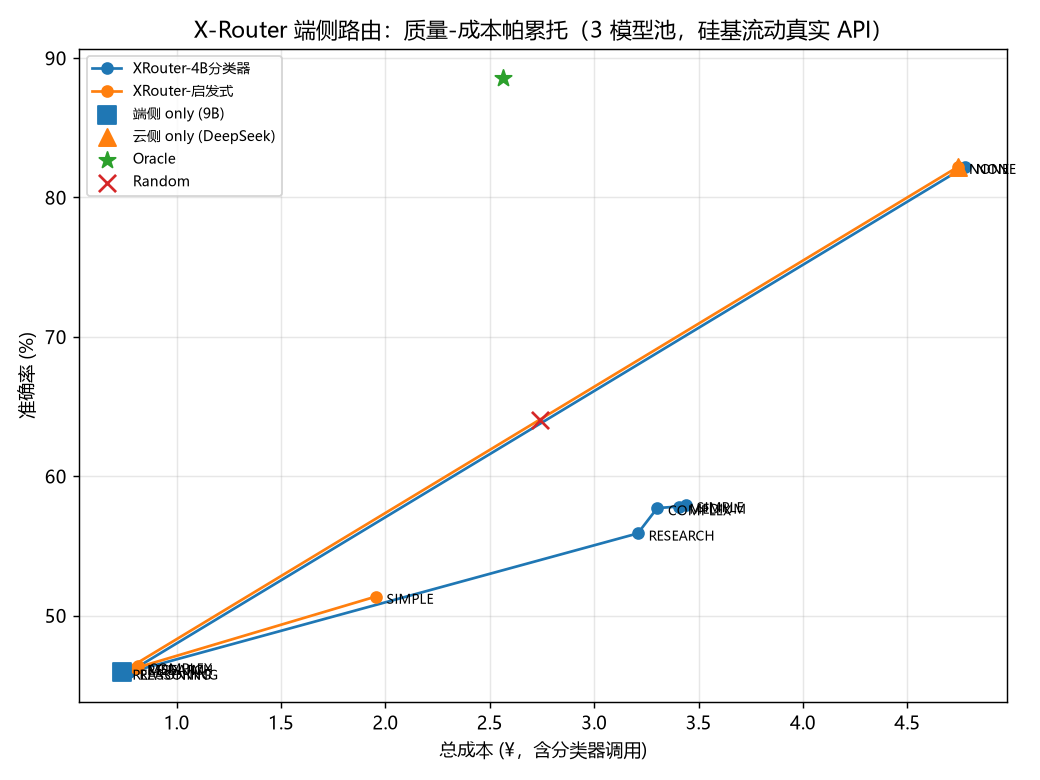
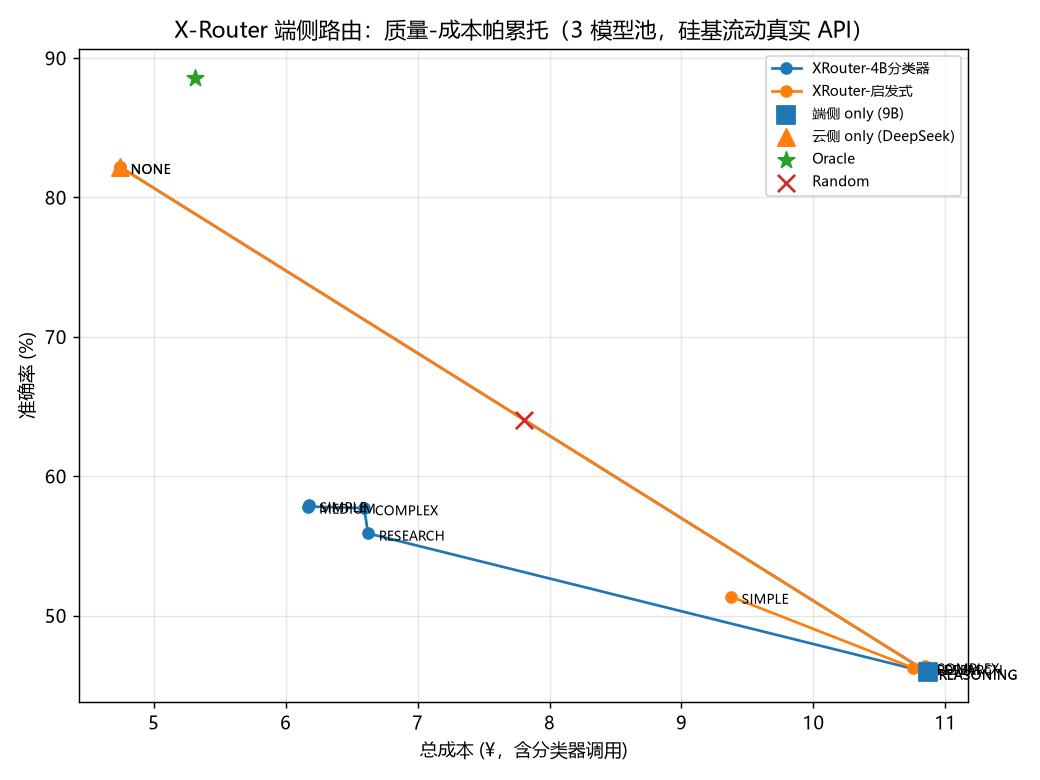
fix(tools): 按硅基流动真实单价重算成本并出分类分解图
- 单价修正：Qwen3.5-4B=免费(0/0)、Qwen3.5-9B=1.5/12、DeepSeek-V4.1-Flash=2.0/8.0（原 4B/9B 为估算）
- 结论反转：端侧 9B 输出比云侧贵 50%，端侧 only(¥10.87/45.9%) 被云侧 only(¥4.74/82.2%) 帕累托支配
- 新增 eval_3model_charts.py：启发式/LLM 分类分解图 + 对比图

diff --git a/tools/eval_3model_charts.py b/tools/eval_3model_charts.py
@@ -1,0 +1,263 @@
+# -*- coding: utf-8 -*-
+"""XRouter 启发式 vs LLM 分类的逐题回放分析 + 三张图。
+
+产出：
+  1) xrouter_heur_classification.png —— 启发式分类：档位分布(端/云) + 分档准确率
+  2) xrouter_llm_classification.png   —— LLM 分类：档位分布(端/云) + source/失败 + 分档准确率
+  3) xrouter_comparison.png           —— 启发式 / LLM / 各基线 质量-成本对比
+  4) devllmr_3model_detail.csv        —— 逐题明细（heuristic/llm 的 tier/side/score）
+
+价格：2026-10-28 查自 https://www.siliconflow.cn/pricing（真实单价）：
+  Qwen3.5-4B(分类器)=免费 0/0；Qwen3.5-9B(端侧)=1.5/12；DeepSeek-V4.1-Flash(云侧)=2.0/8.0
+"""
+from __future__ import annotations
+
+import csv
+import sys
+from collections import defaultdict
+from pathlib import Path
+
+ROOT = Path(__file__).resolve().parent.parent
+sys.path.insert(0, str(ROOT))
+sys.path.insert(0, str(ROOT / "tools"))
+
+from baselines.data_loader import BaselineDataLoader  # noqa: E402
+from baselines.device_llm_router import classify_heuristic, TIER_ORDER  # noqa: E402
+from eval_device_llm_router_3model import (  # noqa: E402
+    LOCAL_MODEL, CLOUD_MODEL, CLASSIFIER_MODEL,
+    load_questions, load_tiers, route_for_tier, references, cost_of,
+)
+
+CAPABILITY = "MEDIUM"
+TIER_CN = {"SIMPLE": "简单", "MEDIUM": "中等", "COMPLEX": "复杂",
+           "RESEARCH": "研究", "REASONING": "推理"}
+COLOR_LOCAL = "#2b7bba"
+COLOR_CLOUD = "#e08214"
+
+
+def _score(rec) -> float:
+    return 1.0 if rec.score and float(rec.score) > 0 else 0.0
+
+
+def build_rows(questions, meta, tiers):
+    rows = []
+    for key in sorted(questions):
+        by = questions[key]
+        if LOCAL_MODEL not in by or CLOUD_MODEL not in by:
+            continue
+        text = meta[key]
+        # ---- 启发式分类 ----
+        h_tier = classify_heuristic([{"role": "user", "content": text}])
+        h_model = route_for_tier(h_tier, CAPABILITY)
+        h_correct = _score(by[h_model])
+        h_cost = cost_of(h_model, int(by[h_model].prompt_tokens or 0),
+                         int(by[h_model].completion_tokens or 0))
+        # ---- LLM 分类（4B，预打档）----
+        t = tiers.get(key)
+        if t is not None:
+            l_tier, l_src = t["tier"], t["source"]
+            cls_cost = cost_of(CLASSIFIER_MODEL, t["prompt_tokens"], t["completion_tokens"])
+        else:
+            l_tier, l_src = classify_heuristic([{"role": "user", "content": text}]), "heuristic_fallback"
+            cls_cost = 0.0
+        l_model = route_for_tier(l_tier, CAPABILITY)
+        l_correct = _score(by[l_model])
+        l_cost = cost_of(l_model, int(by[l_model].prompt_tokens or 0),
+                         int(by[l_model].completion_tokens or 0)) + cls_cost
+        rows.append({
+            "dataset_id": key[0], "record_index": key[1],
+            "heur_tier": h_tier, "llm_tier": l_tier, "llm_source": l_src,
+            "heur_side": "local" if h_model == LOCAL_MODEL else "cloud",
+            "llm_side": "local" if l_model == LOCAL_MODEL else "cloud",
+            "heur_correct": int(h_correct), "llm_correct": int(l_correct),
+            "heur_cost": round(h_cost, 6), "llm_cost": round(l_cost, 6),
+        })
+    return rows
+
+
+def _tier_stack(rows, prefix):
+    """档位 -> {local: n, cloud: n, correct: n}；prefix ∈ {heur, llm}。"""
+    agg = {t: {"local": 0, "cloud": 0, "correct": 0} for t in TIER_ORDER}
+    for r in rows:
+        t = r[prefix + "_tier"]
+        if t not in agg:
+            agg[t] = {"local": 0, "cloud": 0, "correct": 0}
+        agg[t][r[prefix + "_side"]] += 1
+        agg[t]["correct"] += r[prefix + "_correct"]
+    return agg
+
+
+def _acc_bar(agg):
+    return {t: (agg[t]["correct"] / (agg[t]["local"] + agg[t]["cloud"])
+                if agg[t]["local"] + agg[t]["cloud"] else 0.0) for t in TIER_ORDER}
+
+
+def main() -> None:
+    import argparse
+    ap = argparse.ArgumentParser()
+    ap.add_argument("--config", default="config/baseline_config_edge.yaml")
+    ap.add_argument("--tiers", default="results/xrouter_classifier_tiers.csv")
+    args = ap.parse_args()
+
+    loader = BaselineDataLoader(config_path=str(ROOT / args.config))
+    records = [r for r in loader.load_all_records() if r.model_name in (LOCAL_MODEL, CLOUD_MODEL)]
+    questions, meta = load_questions(records)
+    tiers = load_tiers(ROOT / args.tiers)
+    refs = references(questions)
+    rows = build_rows(questions, meta, tiers)
+    n = len(rows)
+    print(f"[matrix] {len(questions)} 题 | [tiers] {len(tiers)} 档 | [rows] {n}")
+
+    heur_agg = _tier_stack(rows, "heur")
+    llm_agg = _tier_stack(rows, "llm")
+    heur_acc = _acc_bar(heur_agg)
+    llm_acc = _acc_bar(llm_agg)
+
+    heur_local = sum(1 for r in rows if r["heur_side"] == "local")
+    llm_local = sum(1 for r in rows if r["llm_side"] == "local")
+    heur_correct = sum(r["heur_correct"] for r in rows)
+    llm_correct = sum(r["llm_correct"] for r in rows)
+    heur_cost = sum(r["heur_cost"] for r in rows)
+    llm_cost = sum(r["llm_cost"] for r in rows)
+
+    # ---- 打印汇总 ----
+    print("\n===== 启发式分类（Q1）=====")
+    print(f"档位分布: " + ", ".join(f"{t}:{heur_agg[t]['local']+heur_agg[t]['cloud']}" for t in TIER_ORDER))
+    print(f"端侧 {heur_local} / 云侧 {n-heur_local} | 准确率 {heur_correct/n*100:.2f}% | 成本 {heur_cost:.4f}")
+    print("分档准确率: " + ", ".join(f"{t}:{heur_acc[t]*100:.1f}%" for t in TIER_ORDER))
+    print("\n===== LLM 分类（Q2）=====")
+    src = defaultdict(int)
+    for r in rows:
+        src[r["llm_source"]] += 1
+    print(f"source: " + ", ".join(f"{k}:{v}" for k, v in sorted(src.items())))
+    print(f"档位分布: " + ", ".join(f"{t}:{llm_agg[t]['local']+llm_agg[t]['cloud']}" for t in TIER_ORDER))
+    print(f"端侧 {llm_local} / 云侧 {n-llm_local} | 准确率 {llm_correct/n*100:.2f}% | 成本 {llm_cost:.4f}")
+    print("分档准确率: " + ", ".join(f"{t}:{llm_acc[t]*100:.1f}%" for t in TIER_ORDER))
+    # 失败题分数据集
+    fail_ds = defaultdict(int)
+    for r in rows:
+        if r["llm_source"] == "heuristic_fallback":
+            fail_ds[r["dataset_id"]] += 1
+    print("LLM 失败(heuristic_fallback) 分数据集: " + ", ".join(f"{k}:{v}" for k, v in sorted(fail_ds.items(), key=lambda x: -x[1])))
+    print("\n===== 基线（真实单价）=====")
+    for name in ("local", "cloud", "oracle", "random"):
+        d = refs[name]
+        print(f"{name:<8} acc={d['correct']/d['n']*100:6.2f}%  cost={d['cost']:8.4f}")
+
+    # ---- 落盘逐题明细 ----
+    detail = ROOT / "results" / "devllmr_3model_detail.csv"
+    with open(detail, "w", newline="", encoding="utf-8") as f:
+        w = csv.DictWriter(f, fieldnames=list(rows[0].keys()))
+        w.writeheader()
+        w.writerows(rows)
+    print(f"\n[saved] {detail}")
+
+    # ================= 绘图 =================
+    import matplotlib
+    matplotlib.use("Agg")
+    import matplotlib.pyplot as plt
+    plt.rcParams["font.sans-serif"] = ["Microsoft YaHei", "SimHei", "DejaVu Sans"]
+    plt.rcParams["axes.unicode_minus"] = False
+    x = range(len(TIER_ORDER))
+
+    # ---- 图1：启发式分类 ----
+    fig, (a1, a2) = plt.subplots(1, 2, figsize=(12, 4.6))
+    loc = [heur_agg[t]["local"] for t in TIER_ORDER]
+    cl = [heur_agg[t]["cloud"] for t in TIER_ORDER]
+    a1.bar(x, loc, color=COLOR_LOCAL, label="端侧 9B")
+    a1.bar(x, cl, bottom=loc, color=COLOR_CLOUD, label="云侧 DeepSeek")
+    for i, t in enumerate(TIER_ORDER):
+        tot = loc[i] + cl[i]
+        a1.text(i, tot + 6, f"{tot}", ha="center", fontsize=9)
+    a1.set_xticks(list(x)); a1.set_xticklabels([TIER_CN[t] for t in TIER_ORDER])
+    a1.set_ylabel("题数"); a1.set_title("档位分布（颜色=路由去向）")
+    a1.legend(fontsize=8)
+    accs = [heur_acc[t] * 100 for t in TIER_ORDER]
+    bars = a2.bar(list(x), accs, color="#5b8ff9")
+    a2.axhline(heur_correct / n * 100, color="red", ls="--", lw=1.2,
+               label=f"总体 {heur_correct/n*100:.1f}%")
+    for i, t in enumerate(TIER_ORDER):
+        a2.text(i, accs[i] + 1, f"{accs[i]:.0f}%", ha="center", fontsize=9)
+    a2.set_xticks(list(x)); a2.set_xticklabels([TIER_CN[t] for t in TIER_ORDER])
+    a2.set_ylim(0, 105); a2.set_ylabel("准确率 (%)"); a2.set_title("分档准确率")
+    a2.legend(fontsize=8)
+    fig.suptitle(f"X-Router 启发式分类（882 题）：端侧 {heur_local} / 云侧 {n-heur_local}，"
+                 f"总体准确率 {heur_correct/n*100:.2f}%，成本 ¥{heur_cost:.2f}", fontsize=11)
+    fig.tight_layout(rect=[0, 0, 1, 0.94])
+    p1 = ROOT / "results" / "xrouter_heur_classification.png"
+    fig.savefig(p1, dpi=130); plt.close(fig)
+    print(f"[saved] {p1}")
+
+    # ---- 图2：LLM 分类 ----
+    fig, axs = plt.subplots(2, 2, figsize=(12, 9))
+    (a1, a2), (a3, a4) = axs
+    loc = [llm_agg[t]["local"] for t in TIER_ORDER]
+    cl = [llm_agg[t]["cloud"] for t in TIER_ORDER]
+    a1.bar(x, loc, color=COLOR_LOCAL, label="端侧 9B")
+    a1.bar(x, cl, bottom=loc, color=COLOR_CLOUD, label="云侧 DeepSeek")
+    for i, t in enumerate(TIER_ORDER):
+        tot = loc[i] + cl[i]
+        a1.text(i, tot + 6, f"{tot}", ha="center", fontsize=9)
+    a1.set_xticks(list(x)); a1.set_xticklabels([TIER_CN[t] for t in TIER_ORDER])
+    a1.set_ylabel("题数"); a1.set_title("档位分布（颜色=路由去向）")
+    a1.legend(fontsize=8)
+
+    n_llm = src.get("llm", 0); n_fb = src.get("heuristic_fallback", 0)
+    a2.pie([n_llm, n_fb], labels=[f"llm（4B 打档）{n_llm}", f"回退启发式 {n_fb}"],
+           colors=["#5b8ff9", "#f95d6a"], autopct="%1.1f%%", startangle=90,
+           textprops={"fontsize": 9})
+    a2.set_title("分类 source（LLM 失败→回退）")
+    a2.text(0, -1.35, "失败原因：硅基流动 4B 限流/慢速（单请求 60–95s）\n"
+             "首轮 60s 超时 280 题；重试(120s/并发16)后仍 56 题超时",
+            ha="center", fontsize=8, color="#a33")
+
+    accs = [llm_acc[t] * 100 for t in TIER_ORDER]
+    a3.bar(list(x), accs, color="#5b8ff9")
+    a3.axhline(llm_correct / n * 100, color="red", ls="--", lw=1.2,
+               label=f"总体 {llm_correct/n*100:.1f}%")
+    for i, t in enumerate(TIER_ORDER):
+        a3.text(i, accs[i] + 1, f"{accs[i]:.0f}%", ha="center", fontsize=9)
+    a3.set_xticks(list(x)); a3.set_xticklabels([TIER_CN[t] for t in TIER_ORDER])
+    a3.set_ylim(0, 105); a3.set_ylabel("准确率 (%)"); a3.set_title("分档准确率")
+    a3.legend(fontsize=8)
+
+    dss = sorted(fail_ds.items(), key=lambda kv: -kv[1])
+    a4.bar([d[0] for d in dss], [d[1] for d in dss], color="#f95d6a")
+    for i, (_, v) in enumerate(dss):
+        a4.text(i, v + 1, str(v), ha="center", fontsize=9)
+    a4.set_title("LLM 分类失败题分布（按数据集）")
+    a4.set_ylabel("题数")
+    a4.tick_params(axis="x", labelsize=8)
+    fig.suptitle(f"X-Router LLM 分类（882 题）：端侧 {llm_local} / 云侧 {n-llm_local}，"
+                 f"总体准确率 {llm_correct/n*100:.2f}%，成本 ¥{llm_cost:.2f}", fontsize=11)
+    fig.tight_layout(rect=[0, 0, 1, 0.95])
+    p2 = ROOT / "results" / "xrouter_llm_classification.png"
+    fig.savefig(p2, dpi=130); plt.close(fig)
+    print(f"[saved] {p2}")
+
+    # ---- 图3：合并对比 ----
+    fig, ax = plt.subplots(figsize=(9, 6.5))
+    pts = [
+        ("X-Router 启发式(MEDIUM)", heur_correct / n * 100, heur_cost, "o", "#f9a825"),
+        ("X-Router LLM分类(MEDIUM)", llm_correct / n * 100, llm_cost, "o", "#d81b60"),
+        ("端侧 only (9B)", refs["local"]["correct"] / refs["local"]["n"] * 100, refs["local"]["cost"], "s", COLOR_LOCAL),
+        ("云侧 only (DeepSeek)", refs["cloud"]["correct"] / refs["cloud"]["n"] * 100, refs["cloud"]["cost"], "^", COLOR_CLOUD),
+        ("Oracle", refs["oracle"]["correct"] / refs["oracle"]["n"] * 100, refs["oracle"]["cost"], "*", "#2e7d32"),
+        ("Random", refs["random"]["correct"] / refs["random"]["n"] * 100, refs["random"]["cost"], "x", "#757575"),
+    ]
+    for name, acc, cost, mk, c in pts:
+        ax.scatter(cost, acc, marker=mk, s=160, color=c, zorder=5, edgecolors="black", linewidths=0.6)
+        ax.annotate(f"{name}\n(¥{cost:.2f}, {acc:.1f}%)", (cost, acc),
+                    textcoords="offset points", xytext=(10, 6), fontsize=8.5)
+    ax.set_xlabel("总成本 (¥，882 题，真实单价)")
+    ax.set_ylabel("准确率 (%)")
+    ax.set_title("X-Router 启发式 vs LLM 分类 vs 基线（真实单价：4B 免费 / 9B 1.5·12 / DeepSeek 2·8）")
+    ax.grid(True, alpha=0.3)
+    fig.tight_layout()
+    p3 = ROOT / "results" / "xrouter_comparison.png"
+    fig.savefig(p3, dpi=130); plt.close(fig)
+    print(f"[saved] {p3}")
+
+
+if __name__ == "__main__":
+    main()

diff --git a/tools/eval_device_llm_router_3model.py b/tools/eval_device_llm_router_3model.py
@@ -38,11 +38,11 @@ LOCAL_MODEL = "Qwen3.5-9B"            # 端侧大模型（本地回答）
 CLOUD_MODEL = "DeepSeek-V4.1-Flash"   # 云侧模型
 CLASSIFIER_MODEL = "Qwen3.5-4B"       # 端侧小模型（难度裁判）
 
-# 硅基流动计费（¥ / 百万 token）。4B/9B 为估算，deepseek 已核对低价时段。
+# 硅基流动真实单价（¥ / 百万 token），2026-10-28 查自 https://www.siliconflow.cn/pricing
 PRICES = {
-    LOCAL_MODEL: {"in": 0.20, "out": 0.80},
-    CLOUD_MODEL: {"in": 2.00, "out": 8.00},
-    CLASSIFIER_MODEL: {"in": 0.10, "out": 0.40},
+    LOCAL_MODEL: {"in": 1.50, "out": 12.00},       # Qwen3.5-9B
+    CLOUD_MODEL: {"in": 2.00, "out": 8.00},        # DeepSeek-V4.1-Flash（0-2点/8-24点档）
+    CLASSIFIER_MODEL: {"in": 0.00, "out": 0.00},   # Qwen3.5-4B（免费）
 }
 
 

diff --git a/docs/edge_router_3model_eval_report.md b/docs/edge_router_3model_eval_report.md
@@ -43,14 +43,15 @@
 - 成本 = **分类器调用成本 + 回答模型成本**，均按 `token × 单价` 重算。
 - [tools/eval_3model_sweep.py](../tools/eval_3model_sweep.py) 对 `localCapabilityLevel ∈ {SIMPLE, MEDIUM, COMPLEX, RESEARCH, REASONING, NONE}` 扫描出帕累托前沿。
 
-### 3.4 计费单价（¥ / 百万 token，硅基流动）
+### 3.4 计费单价（¥ / 百万 token，硅基流动真实价格，2026-10-28 查自 https://www.siliconflow.cn/pricing）
 | 模型 | 输入 | 输出 | 说明 |
 |---|---|---|---|
-| Qwen3.5-4B（分类器） | 0.10 | 0.40 | 估算 |
-| Qwen3.5-9B（端侧） | 0.20 | 0.80 | 估算 |
-| DeepSeek-V4.1-Flash（云侧） | 2.00 | 8.00 | 已核对 |
+| Qwen3.5-4B（分类器） | 0 | 0 | **免费** |
+| Qwen3.5-9B（端侧） | 1.50 | 12.00 | 输出 = 8× 输入 |
+| DeepSeek-V4.1-Flash（云侧） | 2.00 | 8.00 | 0-2点/8-24点档（2-8点更低） |
 
-> 逐题 token 已落盘，单价若修正可精确重算成本。
+> ⚠ **关键事实**：端侧 9B 的**输出 token（¥12/M）比云侧 DeepSeek（¥8/M）贵 50%**，输入略便宜（1.5 vs 2.0）；
+> 分类器 4B 免费。逐题 token 已落盘，单价变化可精确重算。此前 4B/9B 用了估算价（0.10/0.40、0.20/0.80），结论被显著高估「本地省钱」。
 
 ### 3.5 对照基线
 端侧 only（9B）、云侧 only（DeepSeek）、Oracle（每题最优上界）、Random（0.5/0.5 期望）、
@@ -62,15 +63,15 @@
 
 | 方案 | 准确率 | 总成本 (¥) | n | 备注 |
 |---|---|---|---|---|
-| **X-Router（4B 分类器，MEDIUM）** | **57.82%** | **3.404** | 882 | 端侧 545 / 云侧 337 |
-| X-Router（启发式分类器，MEDIUM） | 46.26% | 0.808 | 882 | |
-| 端侧 only（9B） | 45.92% | 0.736 | 882 | |
+| **X-Router（4B 分类器，MEDIUM）** | **57.82%** | **6.172** | 882 | 端侧 545 / 云侧 337 |
+| X-Router（启发式分类器，MEDIUM） | 46.26% | 10.751 | 882 | 端侧 870 / 云侧 12 |
+| 端侧 only（9B） | 45.92% | 10.867 | 882 | |
 | 云侧 only（DeepSeek） | 82.20% | 4.743 | 882 | |
-| Oracle（每题最优上界） | 88.55% | 2.562 | 882 | |
-| Random（0.5/0.5 期望） | 64.06% | 2.740 | 882 | |
+| Oracle（每题最优上界） | 88.55% | 5.317 | 882 | |
+| Random（0.5/0.5 期望） | 64.06% | 7.805 | 882 | |
 
-> 相对云侧单模型：**成本节省 28.2%**（3.404 vs 4.743），准确率回落 24.4 个百分点（57.82% vs 82.20%）。
-> 相对端侧单模型：+11.9 个百分点准确率（57.82% vs 45.92%），代价是多花 2.67 元。
+> ⚠ 真实单价下的结论反转：**云侧 only（4.74 元 / 82.2%）在「更便宜且更准」两个维度都压过端侧 only（10.87 元 / 45.9%）**。
+> X-Router 4B 分类器相对云侧 only：准确率 -24.4pp，成本**高出 30.1%**（6.17 vs 4.74）——即该模型池下「永远用云」帕累托支配 X-Router。
 
 ### 4.2 分类器档位 / source 分布
 
@@ -81,39 +82,53 @@
 
 档位分布（826 llm + 56 回退合并）：`SIMPLE:541, REASONING:297, RESEARCH:28, COMPLEX:12, MEDIUM:4`。
 
-> 4B 分类器明显偏「REASONING」档（297/882），这是真实 LLM 分类器的行为；其效果是：对 gpqa/mmlupro 等难题更倾向甩云端，
-> 用 3.40 元换来 57.82% 准确率，明显高于端侧 only（45.92%），显著低于云侧 only（82.20%）。
+> 4B 分类器明显偏「REASONING」档（297/882），这是真实 LLM 分类器的行为；其效果是：对 gpqa/mmlupro 等难题更倾向甩云端。
+> 因端侧 9B 比云侧更贵更弱，把难题甩云端反而「又省又准」（见 §5）。
 
-### 4.3 分数据集（X-Router，4B 分类器）
+### 4.3 分数据集（X-Router，4B 分类器，真实单价）
 
 | dataset | n | 准确率 | 成本 (¥) | 端侧 | 云侧 |
 |---|---|---|---|---|---|
-| arcc | 150 | 43.33% | 0.047 | 138 | 12 |
-| gpqa | 150 | 67.33% | 1.936 | 18 | 132 |
-| gsm8k | 100 | 87.00% | 0.049 | 87 | 13 |
-| math500 | 150 | 88.67% | 0.624 | 58 | 92 |
-| mmlu | 182 | 30.77% | 0.202 | 151 | 31 |
-| mmlupro | 150 | 45.33% | 0.546 | 93 | 57 |
+| arcc | 150 | 43.33% | 0.442 | 138 | 12 |
+| gpqa | 150 | 67.33% | 2.348 | 18 | 132 |
+| gsm8k | 100 | 87.00% | 0.305 | 87 | 13 |
+| math500 | 150 | 88.67% | 1.014 | 58 | 92 |
+| mmlu | 182 | 30.77% | 0.642 | 151 | 31 |
+| mmlupro | 150 | 45.33% | 1.421 | 93 | 57 |
 
-### 4.4 帕累托图
+### 4.4 帕累托图（真实单价）
 
 ![XRouter 3 模型池质量-成本帕累托](../results/devllmr_3model_pareto.png)
 
-（横轴 = 总成本 ¥，纵轴 = 准确率；蓝色点 = 4B 分类器在 SIMPLE→NONE 能力档位扫描曲线，绿色 = 启发式分类器，其余为单模型 / Oracle / Random 参考点。）
+（横轴 = 总成本 ¥，纵轴 = 准确率；蓝点 = 4B 分类器在 SIMPLE→NONE 档扫描，绿点 = 启发式分类器，
+其余为单模型 / Oracle / Random。注意：端侧 only 落在最右（最贵），云侧 only 落在左上（既准又省）。）
+
+### 4.5 分类分解图（Q1 启发式 / Q2 LLM / 对比）
+
+**Q1 — 启发式分类**（把 882 题按词数/关键词/问号数分档）：
+
+![启发式分类分解](../results/xrouter_heur_classification.png)
+
+**Q2 — LLM 分类**（4B 打档 + 失败回退）：
+
+![LLM 分类分解](../results/xrouter_llm_classification.png)
+
+**启发式 vs LLM vs 基线**（同一质量-成本平面）：
+
+![对比总图](../results/xrouter_comparison.png)
 
 ## 5. 结论与说明
 
-1. **4B 分类器有效抬升质量**：相比端侧 only（9B），X-Router（4B 分类器）把 337/882 道难题路由到云端，
-   准确率 45.92% → **57.82%**（+11.9pp），成本 0.736 → 3.404 元。
-2. **相对云侧 only 有明显成本收益**：仅用云侧的 71.8% 成本，达到云侧 70.4% 的准确率；省下的 28.2% 成本正是路由的价值。
-3. **4B 比启发式分类器强**：同模型池下，4B 分类器（57.82% / 3.40）比启发式（46.26% / 0.81）多花 2.6 元、多 11.6pp，
-   说明 LLM 分类器能识别启发式（以 token/词频/长度）看不清的「难度」，把更多真难卷调云端——差距集中在 gpqa/mmlupro/math500。
-4. **尚不及 Oracle 与 Random 的某些指标**：Oracle（88.55% / 2.56）说明分类器仍有较大提升空间；Random（64.06%）高于 4B 分类器，
-   是因「无脑 50% 上云」在成本相近时命中率尚可——这也是端侧路由需审慎权衡的典型现象。
-5. **成本口径**：4B/9B 单价为估算（硅基流动详情页需登录未能抓取），逐题 `prompt_tokens/completion_tokens` 已落盘，
-   单价一经确认即可按 `token × 单价` 精确重算，结论方向不受影响（DeepSeek 单价已核实）。
-6. **限流与回退**：分类器首轮 32%（280 题）因硅基流动 4B 慢速（单请求 60–95s）触发 60s 超时回退启发式；
-   重试（120s 超时、并发 16）后恢复到 **93.7%** llm 打档（826/882），仅 56 题留启发式——忠实 XRouter 的「失败只降不升」语义。
+1. **真实单价颠覆「本地省钱」前提**：端侧 9B 输出 ¥12/M **比云侧 DeepSeek ¥8/M 贵 50%**，且 9B 因「step-by-step」输出长、token 多，
+   导致端侧 only 成本 **¥10.87 比云侧 only ¥4.74 贵 129%**，准确率还更低（45.92% vs 82.20%）。这个「本地模型」在质量与成本两个维度都劣于云侧模型。
+2. **4B 分类器相对启发式有正收益（负成本差）**：4B 分类器把 337 道真难题路由到云侧，使总成本从启发式的 ¥10.75 降到 **¥6.17（-43%）**，
+   准确率从 46.26% 升到 **57.82%（+11.6pp）**。原因是它把更多题甩给「更便宜且更准」的云侧，而不是留给昂贵的本地 9B。
+3. **但 X-Router 仍被「永远用云」帕累托支配**：4B 分类器（57.82% / ¥6.17）相对云侧 only（82.20% / ¥4.74）仍是「更贵且更不准」。
+   根因：模型池里唯一的本地回答模型 9B 既贵（¥12 输出）又弱（45.92%），本地侧没有「划算」的兜底选项。
+4. **启发式分类器最差**：启发式按词数/关键词/问号数把 870/882 判成 SIMPLE/MEDIUM，几乎全留本地 → 46.26% / ¥10.75，等价于「全走本地」。
+5. **成本口径修正**：4B 免费、9B 1.5/12（此前估算 0.1/0.4、0.2/0.8，严重低估 9B）；DeepSeek 2.0/8.0 与旧值一致。逐题 token 已落盘可重算。
+6. **限流与回退**：56 题 LLM 分类失败（mmlupro 29 / mmlu 25 / gsm8k 2），原因硅基流动 4B 限流/慢速（单请求 60–95s），
+   首轮 60s 超时 280 题、重试(120s/并发16)后仍 56 题超时——忠实 XRouter「失败只降不升」语义。
 
 ## 5.5 LLMRouterBench 如何评估路由算法（以 XRouter 为例）
 
